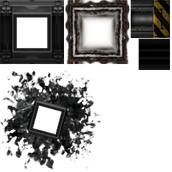
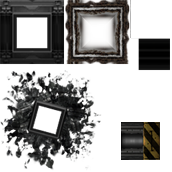
Made duct blocks impassable, fixed duct block sprite (the door frame opened instead of the actual door part, and they always appeared to be partially open)

Changed region(s): [[0.7558, 0.0, 0.9884, 0.2326], [0.6977, 0.6977, 0.9302, 0.9302]]

diff --git a/Barotrauma/BarotraumaShared/Source/Items/Components/Door.cs b/Barotrauma/BarotraumaShared/Source/Items/Components/Door.cs
@@ -161,7 +161,14 @@ namespace Barotrauma.Items.Components
 #endif
             }
         }
-        
+
+        [Serialize(false, false)]
+        public bool Impassable
+        {
+            get;
+            set;
+        }
+
         public Door(Item item, XElement element)
             : base(item, element)
         {
@@ -294,7 +301,7 @@ namespace Barotrauma.Items.Components
             }
             else
             {
-                body.Enabled = openState < 1.0f;
+                body.Enabled = Impassable || openState < 1.0f;                
             }
 
             //don't use the predicted state here, because it might set
@@ -309,7 +316,10 @@ namespace Barotrauma.Items.Components
 
         private void EnableBody()
         {
-            body.FarseerBody.IsSensor = false;
+            if (!Impassable)
+            {
+                body.FarseerBody.IsSensor = false;
+            }
 #if CLIENT
             UpdateConvexHulls();
 #endif
@@ -320,7 +330,10 @@ namespace Barotrauma.Items.Components
         {
             //change the body to a sensor instead of disabling it completely, 
             //because otherwise repairtool raycasts won't hit it
-            body.FarseerBody.IsSensor = true;
+            if (!Impassable)
+            {
+                body.FarseerBody.IsSensor = true;
+            }
             linkedGap.Open = 1.0f;
             IsOpen = false;
 #if CLIENT

diff --git a/Barotrauma/BarotraumaClient/Source/Items/Components/Door.cs b/Barotrauma/BarotraumaClient/Source/Items/Components/Door.cs
@@ -85,7 +85,7 @@ namespace Barotrauma.Items.Components
         
         public void Draw(SpriteBatch spriteBatch, bool editing)
         {
-            Color color = (item.IsSelected) ? Color.Green : Color.White;
+            Color color = Color.White;
             if (brokenSprite == null)
             {
                 //broken doors turn black if no broken sprite has been configured
